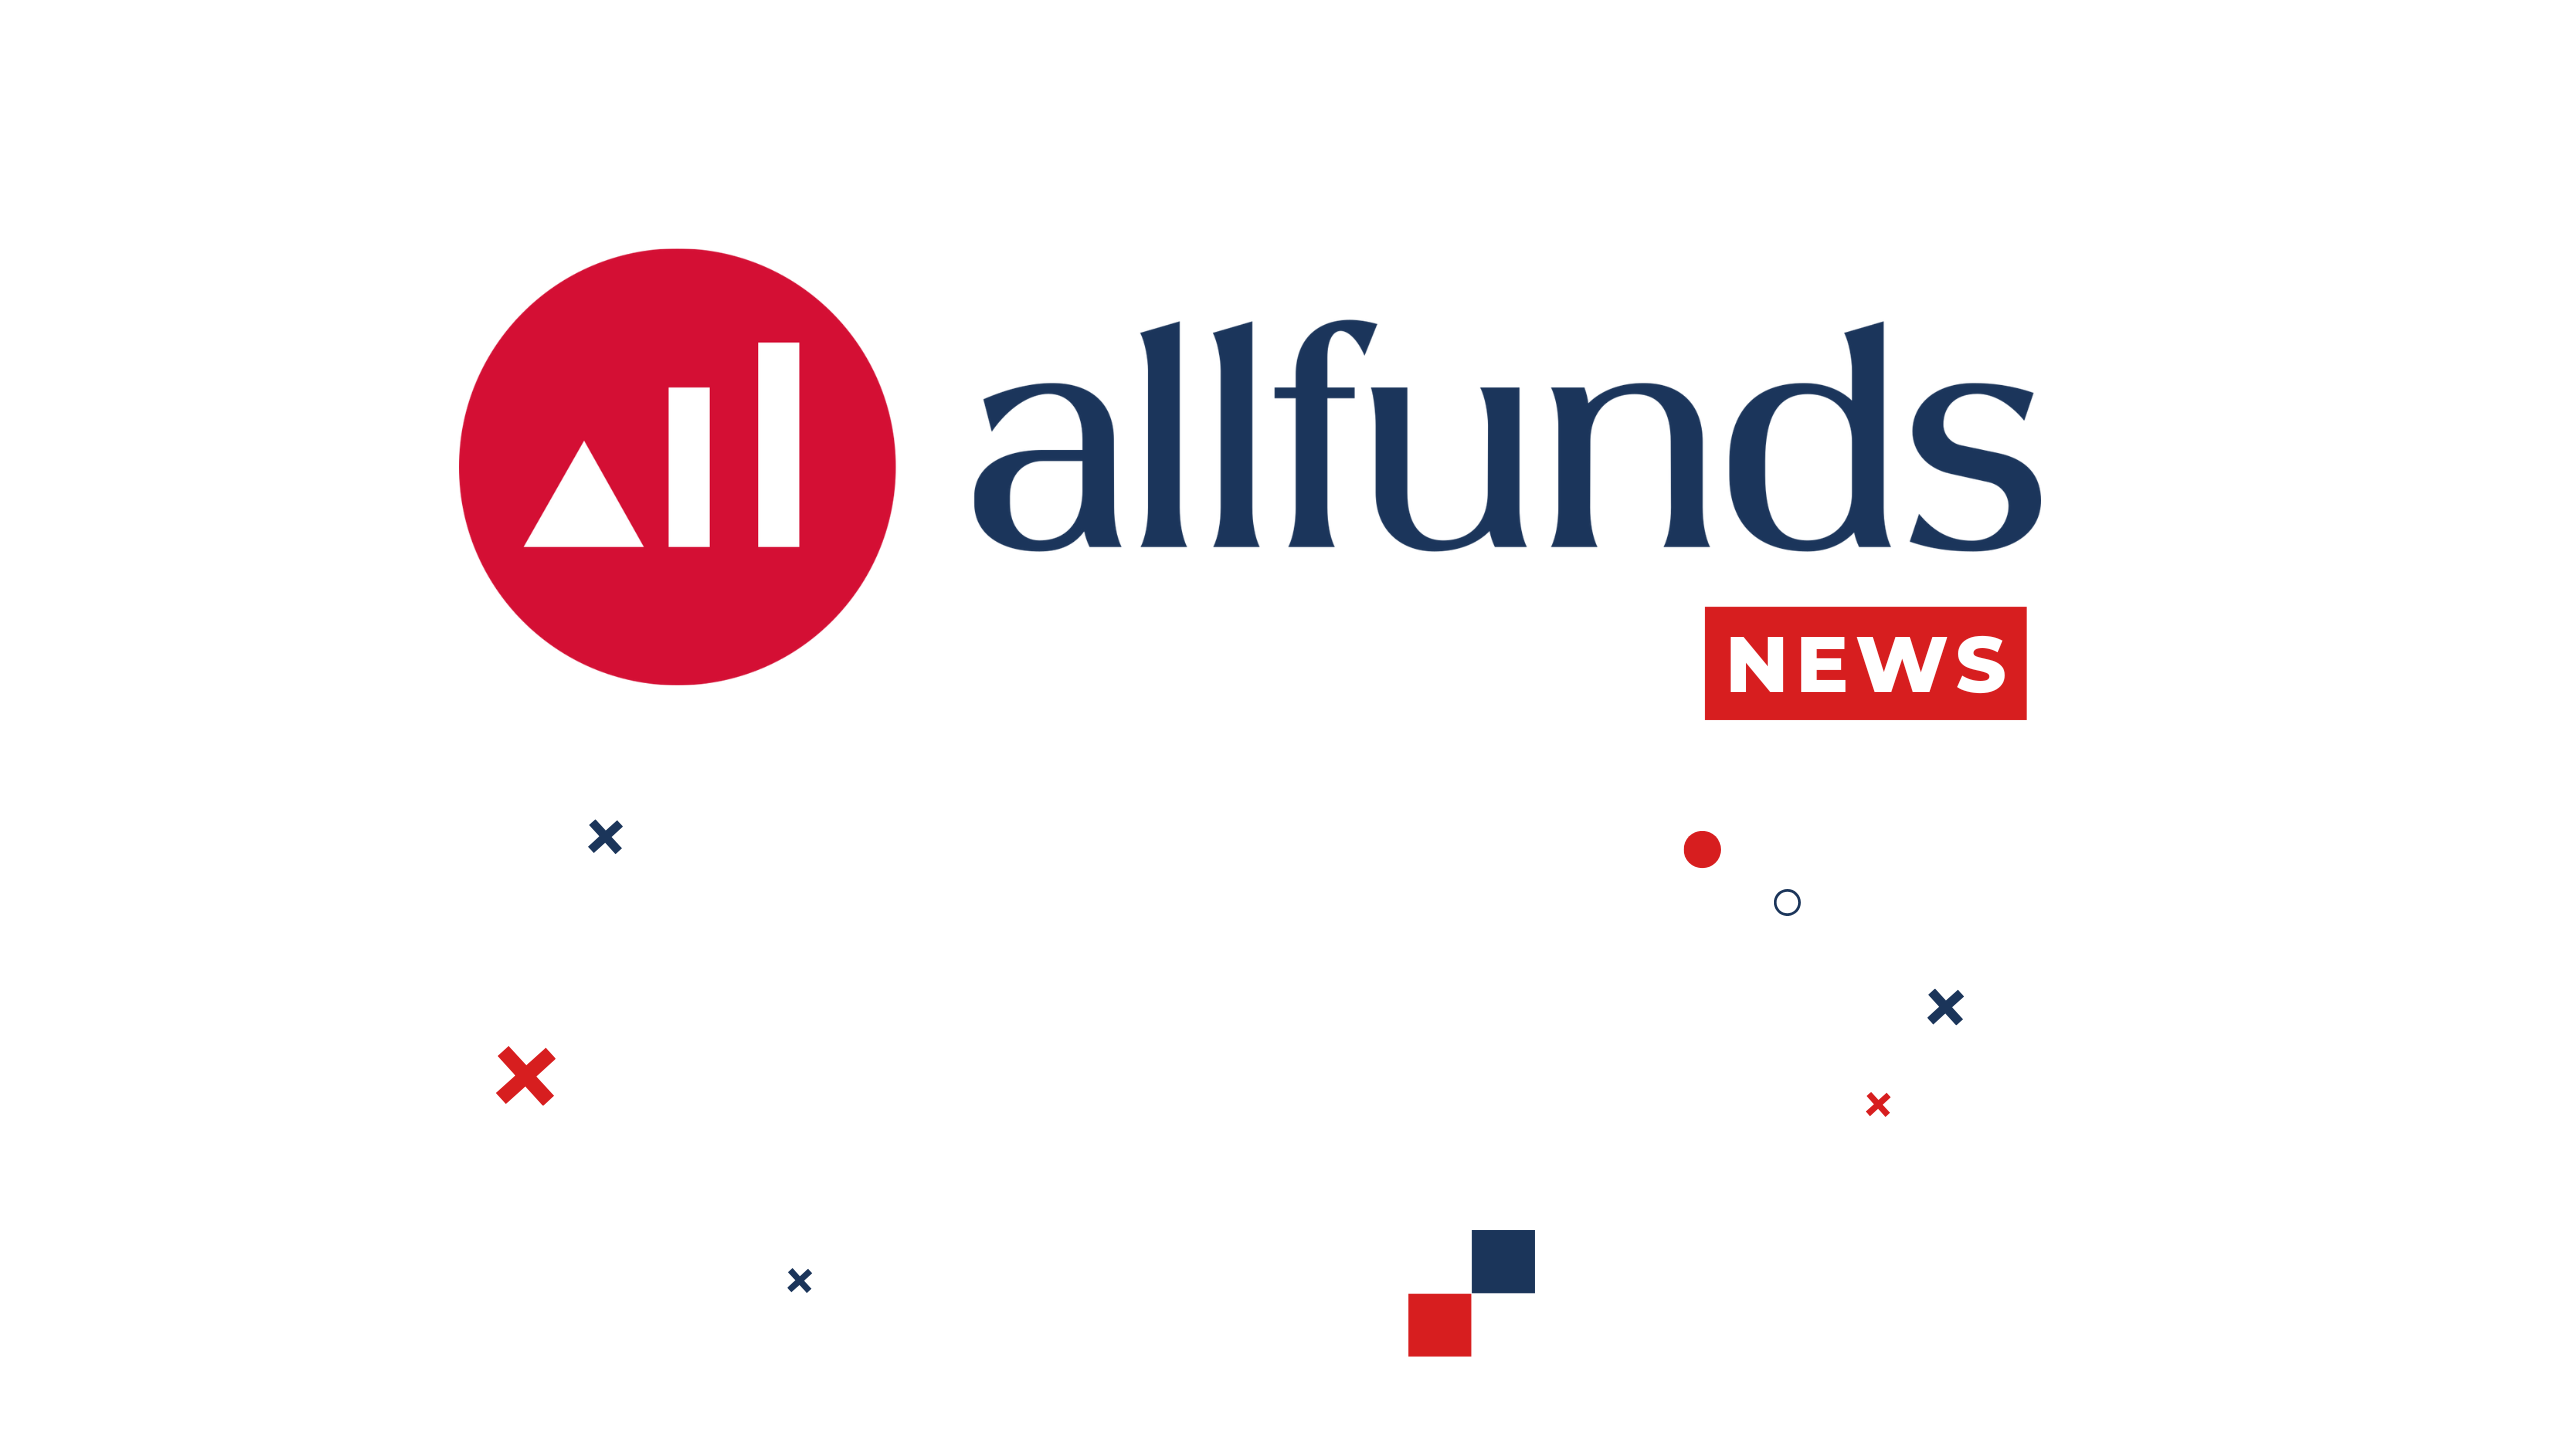
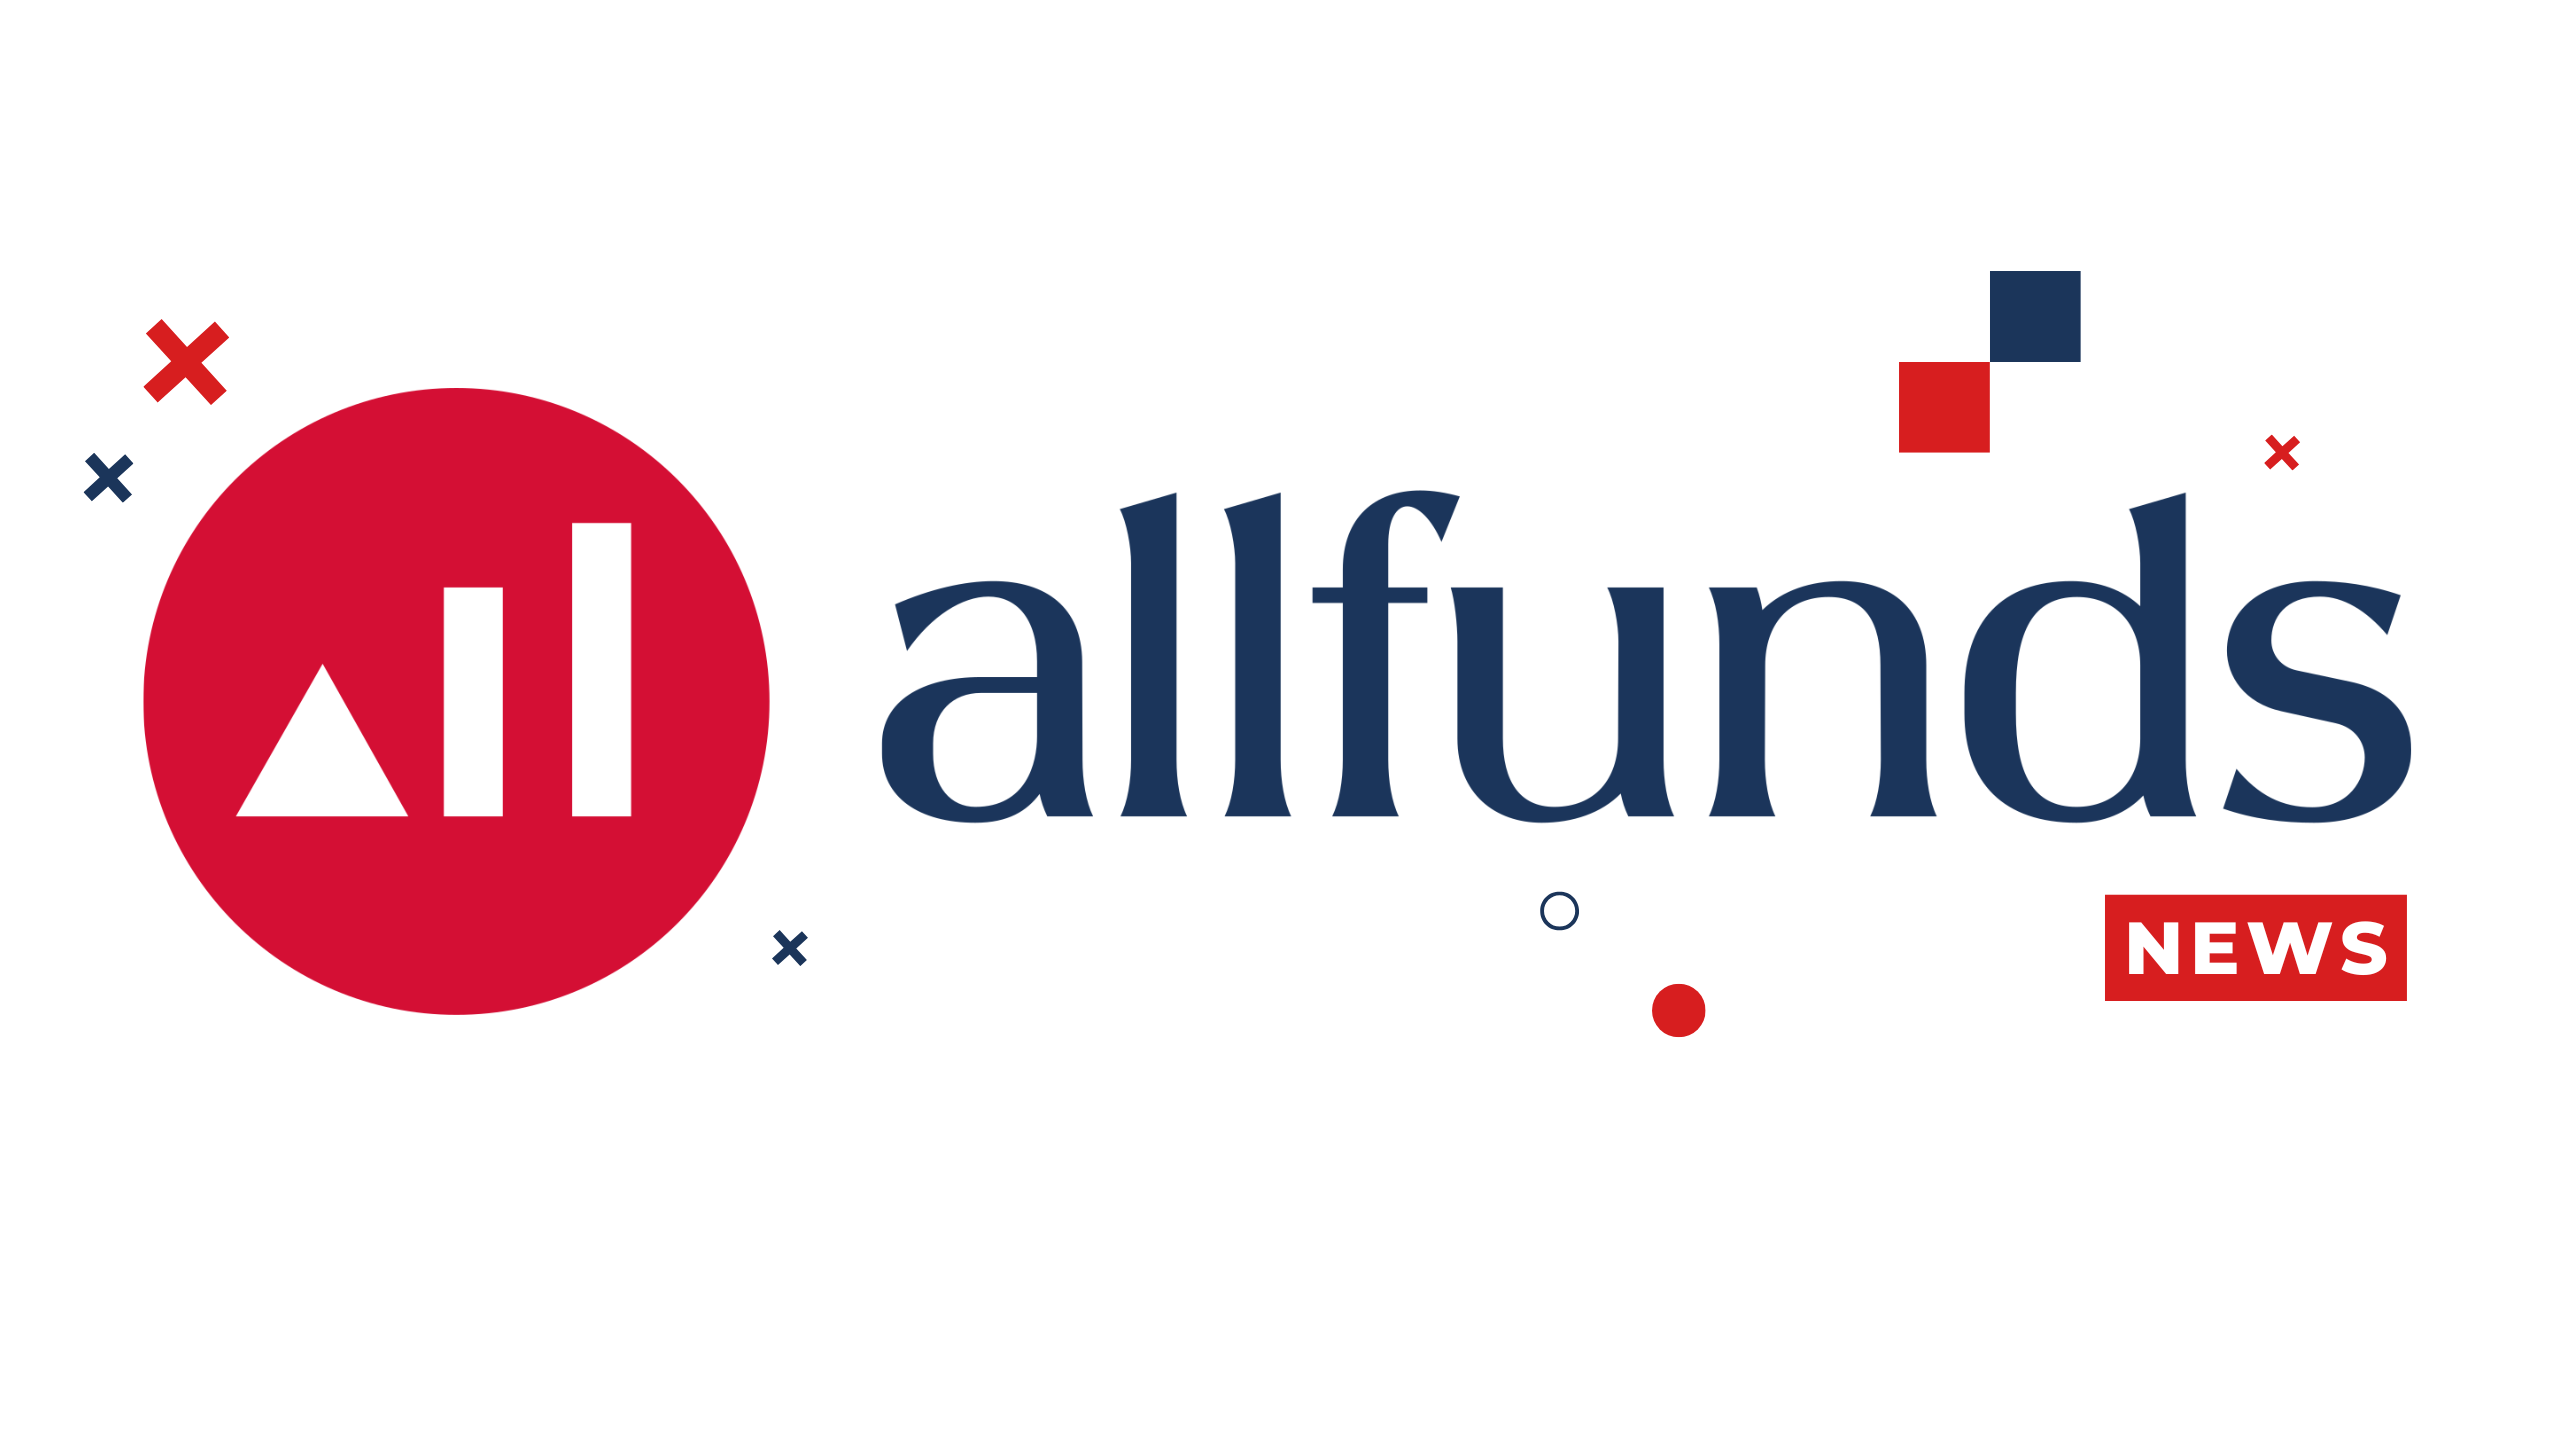
style: update landing page styles

diff --git a/frontend/src/views/landing/Landing.module.css b/frontend/src/views/landing/Landing.module.css
@@ -5,20 +5,17 @@
     flex-direction: column; 
     justify-content: center;
     align-items: center; 
-    background-size: cover;
-    background-repeat: no-repeat;
-    background-position: center;
-    font-family: 'VT323', monospace;
     padding: 100px;
-    background-image: url('landing.png')
-    
+  }
+
+  .logo{
+    height: 500px;
   }
    
   .btn {
      width: 150px;
      height: 50px;
-     border: 1px solid #333;
-     margin-top: 60px;
+     border: 1px solid #1B345B;
      font-size: 21px;
      cursor: pointer;
      -webkit-tap-highlight-color: transparent;
@@ -28,9 +25,7 @@
      position: relative;
      z-index: 4;
      transition: 1s;
-     color: #000;
-     font-family: sans-serif;
-     font-family: 'VT323', monospace;
+     color: #1B345B;
    }
    
    .btn::before,

diff --git a/frontend/src/views/landing/Landing.jsx b/frontend/src/views/landing/Landing.jsx
@@ -1,5 +1,6 @@
 import { useNavigate } from "react-router-dom";
 import styles from "./Landing.module.css";
+import logo from "../../../public/landing.png";
 
 const Landing = () => {
   const navigate = useNavigate();
@@ -10,6 +11,7 @@ const Landing = () => {
 
   return (
     <div className={styles.container}>
+      <img src={logo} className={styles.logo} />
       <button className={styles.btn} onClick={handleHome}>
         <span className={styles.noselect}>ENTER</span>
       </button>
